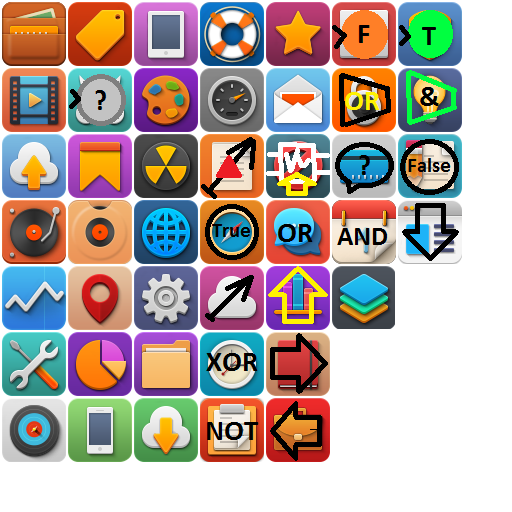
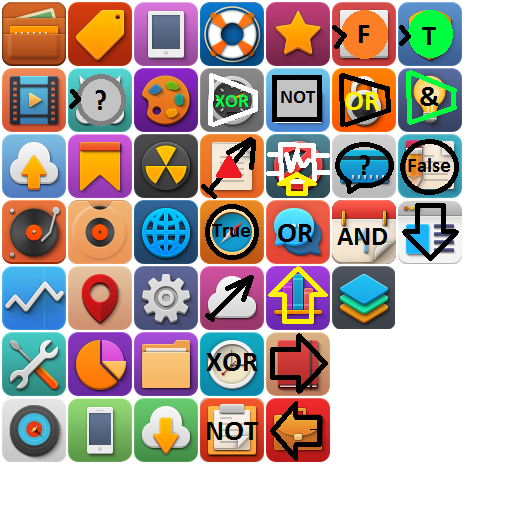
Added support for XOR and NOT logic elements.

Changed region(s): [[0.4062, 0.125, 0.6562, 0.25]]

diff --git a/LogicEntity.js b/LogicEntity.js
@@ -42,6 +42,49 @@ function AndEntity(){
 	};
 }
 
+function XorEntity(){
+  this.canBeStart = true;
+  this.canBeEnd = true;
+	this.inputEntities = [];
+	this.canAcceptMoreSources = true;
+	this.addSource = function(entityToAdd){
+		this.inputEntities.push(entityToAdd);
+		if(this.inputEntities.length > 1){
+		  this.canAcceptMoreSources = false;
+		}
+	};
+	this.removeSource = function(source){
+	  var index = this.inputEntities.indexOf(source);
+	  this.inputEntities.splice(index, 1);
+	  this.canAcceptMoreSources = true;
+	};
+	this.outputValue = function(){
+	  if(this.inputEntities.length < 2) return undefined;
+		var res = this.inputEntities[0].outputValue() ^ this.inputEntities[1].outputValue();
+		return res;
+	};
+}
+function NotEntity(){
+  this.canBeStart = true;
+  this.canBeEnd = true;
+	this.source = undefined;
+	this.canAcceptMoreSources = true;
+	this.addSource = function(entityToSet){
+		this.source = entityToSet;
+		this.canAcceptMoreSources = false;
+	};
+	this.removeSource = function(source){ // FIXME add assertion here that this.source === source
+	  this.source = undefined;
+	  this.canAcceptMoreSources = true;
+	};
+	this.outputValue = function(){
+	  if(this.source === undefined) return undefined;
+	  var result = this.source.outputValue();
+	  return result === undefined ? undefined : !result;
+	};
+}
+
+
 
 function TrueEntity(){
   this.canBeStart = true;
@@ -65,7 +108,7 @@ function ResultEntity(){
 		this.source = entityToSet;
 		this.canAcceptMoreSources = false;
 	};
-	this.removeSource = function(source){
+	this.removeSource = function(source){ // FIXME add assertion here that this.source === source
 	  this.source = undefined;
 	  this.canAcceptMoreSources = true;
 	};

diff --git a/objCreator.js b/objCreator.js
@@ -11,6 +11,8 @@ ENTITY_ICON['result'] = 30;
 var LOGIC_ENTITY_CLASS = {};
 LOGIC_ENTITY_CLASS['and'] = AndEntity;
 LOGIC_ENTITY_CLASS['or'] = OrEntity;
+LOGIC_ENTITY_CLASS['xor'] = XorEntity;
+LOGIC_ENTITY_CLASS['not'] = NotEntity;
 
 LOGIC_ENTITY_CLASS['ctrue'] = TrueEntity;
 LOGIC_ENTITY_CLASS['cfalse'] = FalseEntity;
